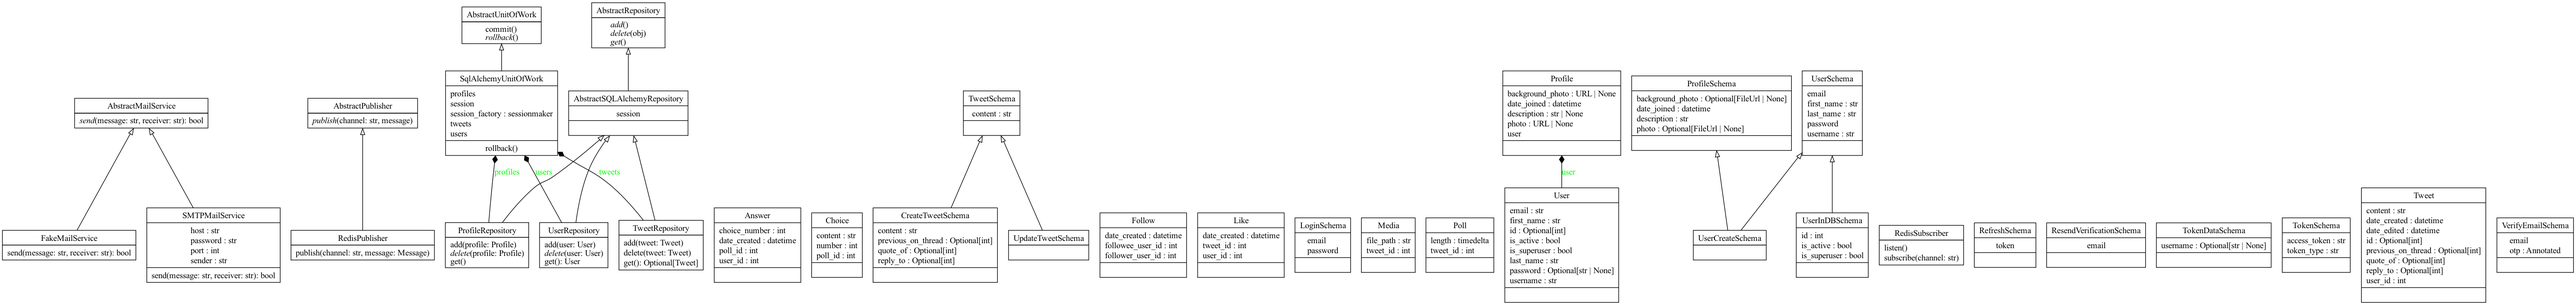
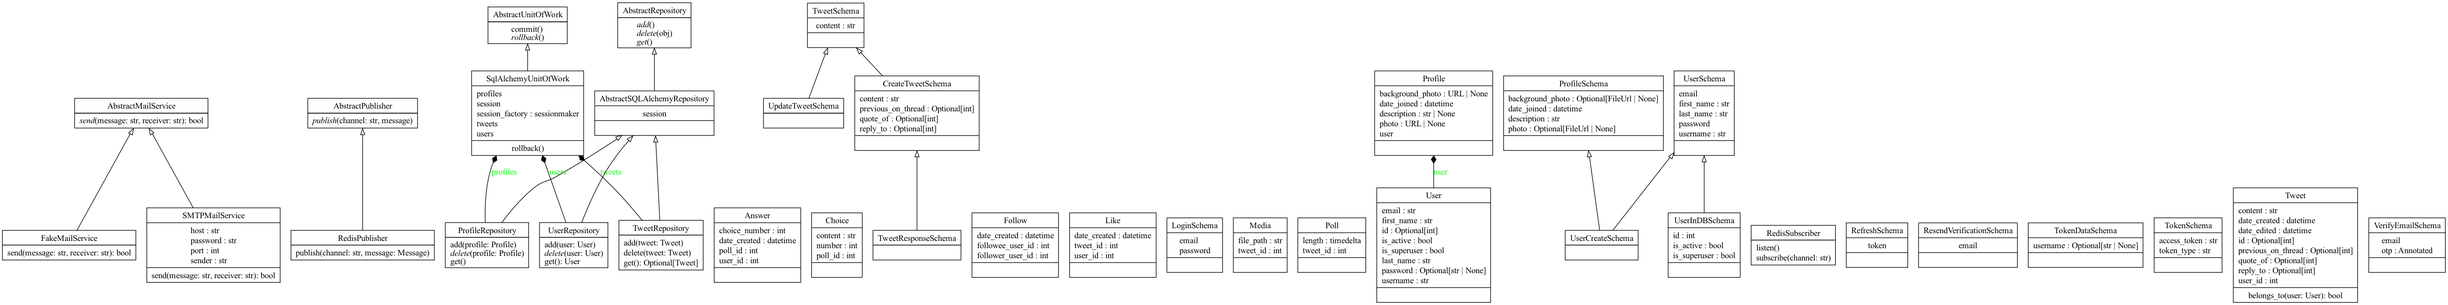
refactored tweets api

diff --git a/twitter/entrypoints/fastapi_app/routers/tweets.py b/twitter/entrypoints/fastapi_app/routers/tweets.py
@@ -1,4 +1,5 @@
 import json
+from dataclasses import asdict
 
 from fastapi import APIRouter, Depends, Response
 
@@ -6,6 +7,7 @@ from twitter.domain.tweets import Tweet
 from twitter.presentation.schemas.auth import UserInDBSchema
 from twitter.presentation.schemas.tweet import (
     CreateTweetSchema,
+    TweetResponseSchema,
     UpdateTweetSchema
 )
 from twitter.services.auth import get_current_active_user
@@ -18,7 +20,7 @@ router = APIRouter(prefix='/tweets')
 async def create_tweet(
     tweet: CreateTweetSchema,
     user: UserInDBSchema = Depends(get_current_active_user)
-):
+) -> TweetResponseSchema:
     with SqlAlchemyUnitOfWork() as uow:
         tweet = Tweet(
             user_id=user.id,
@@ -26,7 +28,7 @@ async def create_tweet(
         )
         uow.tweets.add(tweet)
         uow.commit()
-    return {'detail': 'Successfully created Tweet'}
+        return TweetResponseSchema(**asdict(Tweet))
 
 
 @router.delete('/delete/{tweet_id}')
@@ -43,7 +45,7 @@ def delete_tweet(
             )
         uow.tweets.delete(tweet)
         uow.commit()
-    return {'detail': 'Successfully deleted Tweet'}
+    return 
 
 
 @router.patch('/update/{tweet_id}')
@@ -51,10 +53,10 @@ def update_tweet(
     tweet_id: int,
     data: UpdateTweetSchema,
     user: UserInDBSchema = Depends(get_current_active_user)
-):
+) -> TweetResponseSchema:
     with SqlAlchemyUnitOfWork() as uow:
         tweet = uow.tweets.get(Tweet.id == tweet_id)
-        if tweet.user_id != user.id:
+        if not tweet.belongs_to(user):
             return Response(
                 content=json.dumps({
                     'detail': 'You can only update your own tweets'
@@ -64,4 +66,4 @@ def update_tweet(
         tweet.content = data.content
         uow.tweets.add(tweet)
         uow.commit()
-    return {'detail': 'Successfully updated Tweet'}
+        return TweetResponseSchema(**asdict(Tweet))

diff --git a/twitter/domain/tweets.py b/twitter/domain/tweets.py
@@ -2,6 +2,7 @@ from dataclasses import dataclass, field
 from datetime import datetime
 from typing import Optional
 
+from .auth import User
 from .types import URL
 
 
@@ -15,6 +16,9 @@ class Tweet:
     reply_to: Optional[int] = None # ID of tweet to which this one replies
     previous_on_thread: Optional[int] = None # ID of previous tweet on thread
     id: Optional[int] = None
+
+    def belongs_to(self, user: User) -> bool:
+        return self.user_id == user.id
 
 
 @dataclass

diff --git a/twitter/presentation/schemas/tweet.py b/twitter/presentation/schemas/tweet.py
@@ -16,3 +16,7 @@ class CreateTweetSchema(TweetSchema):
 
 class UpdateTweetSchema(TweetSchema):
     pass
+
+
+class TweetResponseSchema(CreateTweetSchema):
+    pass
